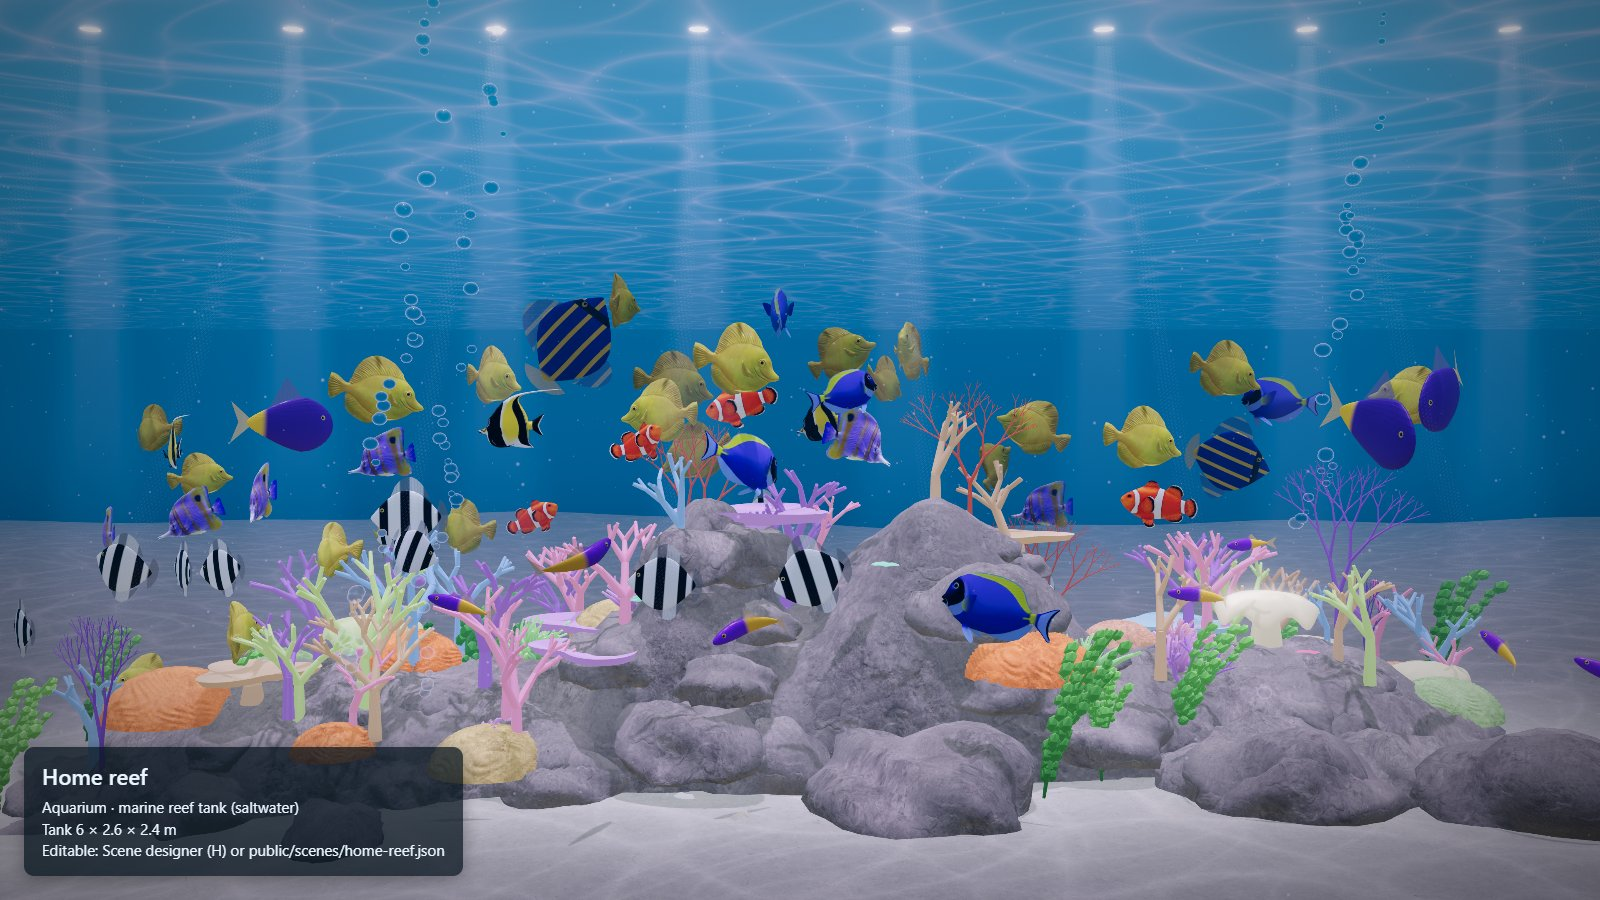
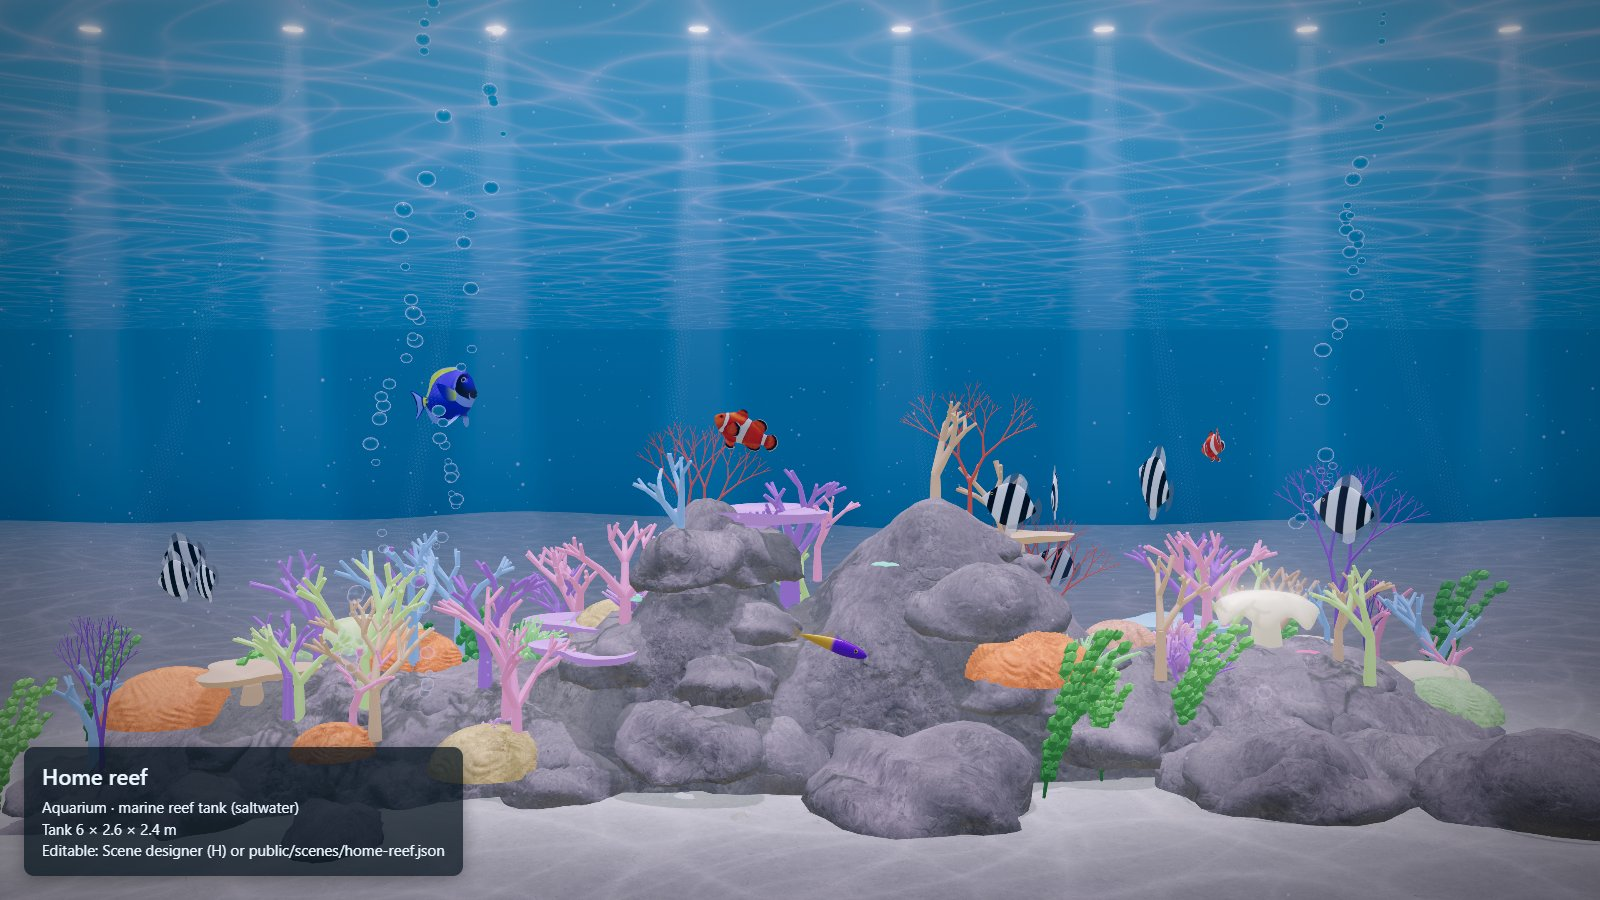
feat(scenes): Aquaria, a demo tank like the hero image, opens first
A wide teal tank with tall rock pillars at the back, orange branching
corals, fans and table corals at the sides, kelp, and the fish of the
hero image that the catalog has: a school of blue tangs, clownfish by
the anemones, royal grammas, seabream, a yellow tang and a school of
neons (a fantasy mix of sea and fresh water, as in the picture). It
heads a new Demo group, so it is the scene a first visit opens. Picture,
caption, visual baseline and README entry included; the visual baselines
and doc pictures are redrawn for the new default fauna.

The designer e2e tests start from the tropical reef they were written
for, now saved as the viewer's scene instead of assumed as the default.

diff --git a/e2e/app.spec.ts b/e2e/app.spec.ts
@@ -402,8 +402,12 @@ test("switches the light fixture to LED spots", async ({ page }) => {
 test.describe("scene designer", () => {
   async function openDesigner(page: Page): Promise<void> {
     await page.addInitScript(() => {
+      // The designer tests start from the tropical reef, whatever the default scene.
       if (localStorage.getItem("aquaria.settings") === null) {
-        localStorage.setItem("aquaria.settings", JSON.stringify({ renderHeight: 540 }));
+        localStorage.setItem(
+          "aquaria.settings",
+          JSON.stringify({ renderHeight: 540, scene: "reef" }),
+        );
       }
     });
     await page.goto("/?effects=none");

diff --git a/e2e/gallery.spec.ts b/e2e/gallery.spec.ts
@@ -15,6 +15,7 @@ interface SceneFile {
 
 /** The kind of aquarium each bundled scene shows, for the caption. */
 const KINDS: Readonly<Record<string, string>> = {
+  aquaria: "Demo · the Aquaria showcase tank (a fantasy mix of sea and fresh water)",
   reef: "Open sea · tropical coral reef (saltwater)",
   "home-reef": "Aquarium · marine reef tank (saltwater)",
   "planted-tank": "Aquarium · planted community tank (freshwater)",

diff --git a/README.md b/README.md
@@ -25,9 +25,9 @@ for the control panel. On a laptop, let the browser use the dedicated GPU (see
 <sub>A reef tank with `A` on: what every fish is doing (wandering, pecking,
 inspecting), and a card for the fish under the pointer.</sub>
 
-| [![Tropical reef](docs/scenes/reef.jpg)](#bundled-scenes) | [![Home reef](docs/scenes/home-reef.jpg)](#bundled-scenes) | [![Planted tank](docs/scenes/planted-tank.jpg)](#bundled-scenes) | [![Iwagumi](docs/scenes/iwagumi.jpg)](#bundled-scenes) |
-| :-------------------------------------------------------: | :--------------------------------------------------------: | :--------------------------------------------------------------: | :----------------------------------------------------: |
-|                       Tropical reef                       |                         Home reef                          |                           Planted tank                           |                        Iwagumi                         |
+| [![Aquaria](docs/scenes/aquaria.jpg)](#bundled-scenes) | [![Tropical reef](docs/scenes/reef.jpg)](#bundled-scenes) | [![Home reef](docs/scenes/home-reef.jpg)](#bundled-scenes) | [![Planted tank](docs/scenes/planted-tank.jpg)](#bundled-scenes) | [![Iwagumi](docs/scenes/iwagumi.jpg)](#bundled-scenes) |
+| :----------------------------------------------------: | :-------------------------------------------------------: | :--------------------------------------------------------: | :--------------------------------------------------------------: | :----------------------------------------------------: |
+|                        Aquaria                         |                       Tropical reef                       |                         Home reef                          |                           Planted tank                           |                        Iwagumi                         |
 
 ## Features
 
@@ -168,13 +168,15 @@ examples, not fixed content: each one is a plain JSON file in
 `public/scenes/`, and every value (tank, water, light, plants, rocks, fish)
 can be changed in the **Scene designer** or in the file itself.
 
-| Scene                                                         | Kind of aquarium                                         | Tank (w × h × d) |
-| ------------------------------------------------------------- | -------------------------------------------------------- | ---------------- |
-| [Tropical reef](docs/scenes/reef.jpg) (`reef`)                | Open sea: tropical coral reef, saltwater                 | 5.4 × 3 × 4 m    |
-| [Home reef](docs/scenes/home-reef.jpg) (`home-reef`)          | Marine reef aquarium, saltwater                          | 6 × 2.6 × 2.4 m  |
-| [Planted tank](docs/scenes/planted-tank.jpg) (`planted-tank`) | Planted community aquarium, freshwater                   | 2.4 × 1.1 × 1 m  |
-| [Iwagumi](docs/scenes/iwagumi.jpg) (`iwagumi`)                | Iwagumi aquascape (stones and carpet plants), freshwater | 2.2 × 1.1 × 1 m  |
+| Scene                                                         | Kind of aquarium                                                                | Tank (w × h × d) |
+| ------------------------------------------------------------- | ------------------------------------------------------------------------------- | ---------------- |
+| [Aquaria](docs/scenes/aquaria.jpg) (`aquaria`, the default)   | Demo: a showcase tank like the hero image, a fantasy mix of sea and fresh water | 6 × 3.2 × 3.2 m  |
+| [Tropical reef](docs/scenes/reef.jpg) (`reef`)                | Open sea: tropical coral reef, saltwater                                        | 5.4 × 3 × 4 m    |
+| [Home reef](docs/scenes/home-reef.jpg) (`home-reef`)          | Marine reef aquarium, saltwater                                                 | 6 × 2.6 × 2.4 m  |
+| [Planted tank](docs/scenes/planted-tank.jpg) (`planted-tank`) | Planted community aquarium, freshwater                                          | 2.4 × 1.1 × 1 m  |
+| [Iwagumi](docs/scenes/iwagumi.jpg) (`iwagumi`)                | Iwagumi aquascape (stones and carpet plants), freshwater                        | 2.2 × 1.1 × 1 m  |
 
+![Aquaria: the demo showcase tank. Editable.](docs/scenes/aquaria.jpg)
 ![Tropical reef: open sea, tropical coral reef. Editable.](docs/scenes/reef.jpg)
 ![Home reef: marine reef aquarium. Editable.](docs/scenes/home-reef.jpg)
 ![Planted tank: freshwater planted community aquarium. Editable.](docs/scenes/planted-tank.jpg)
